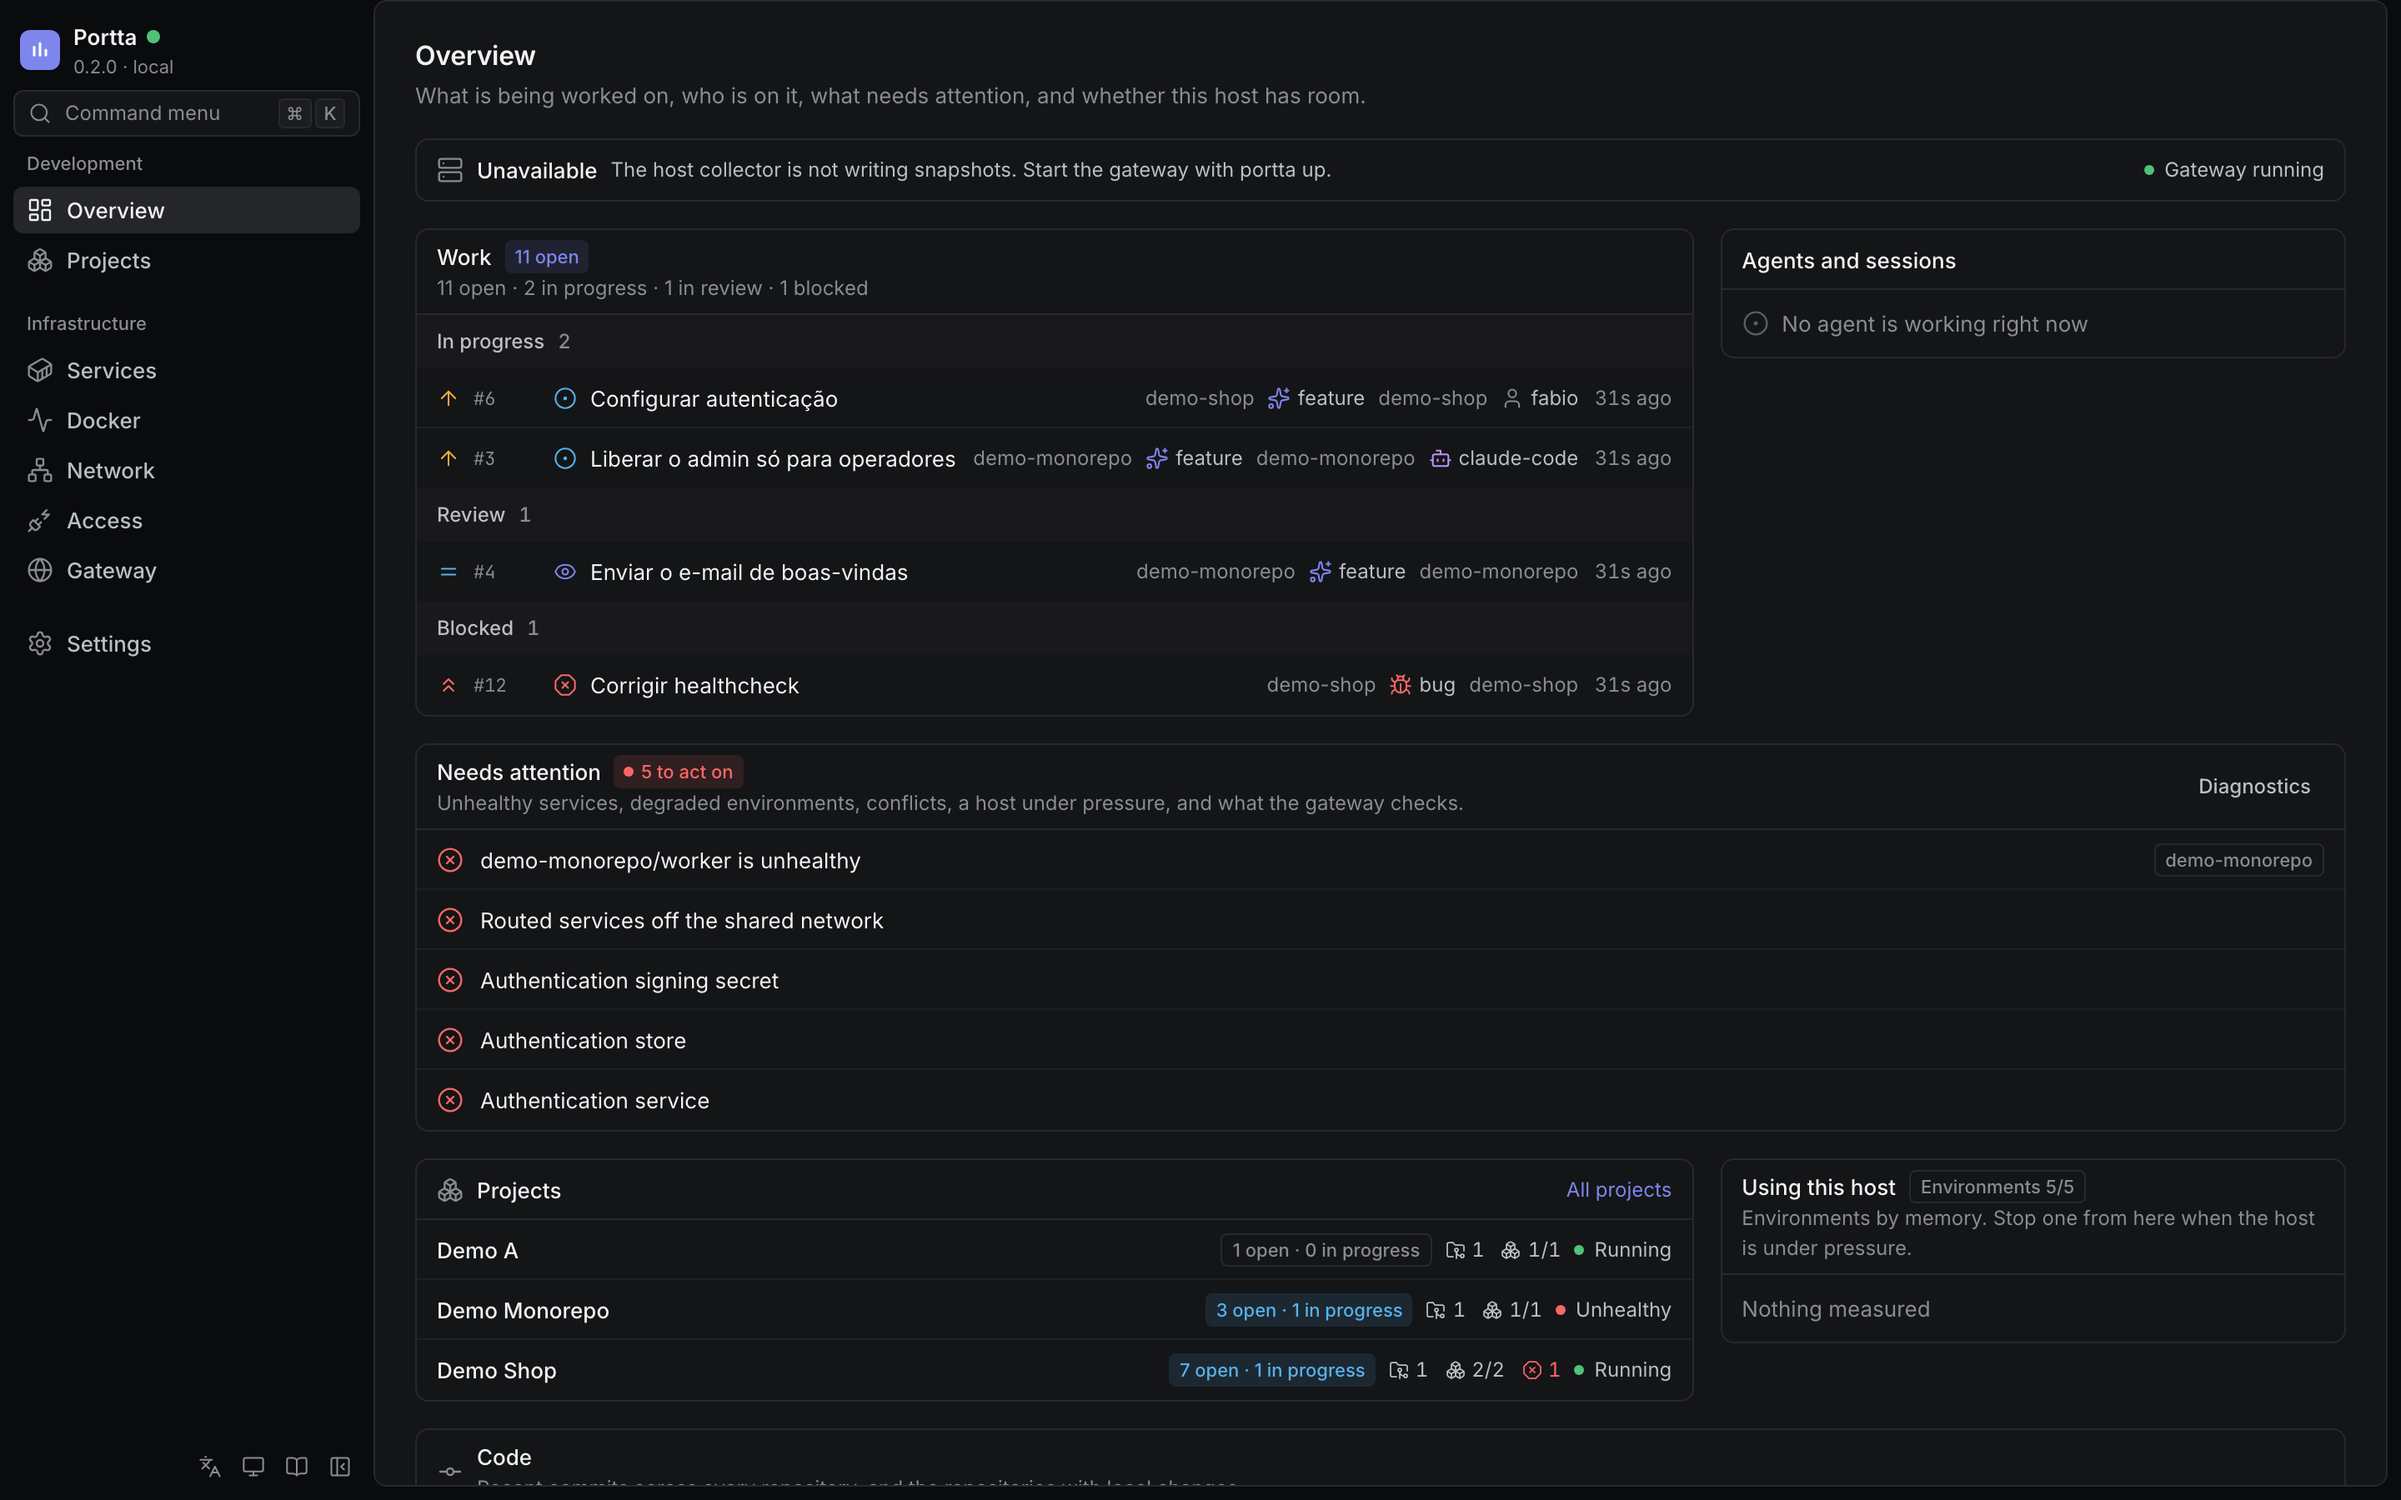
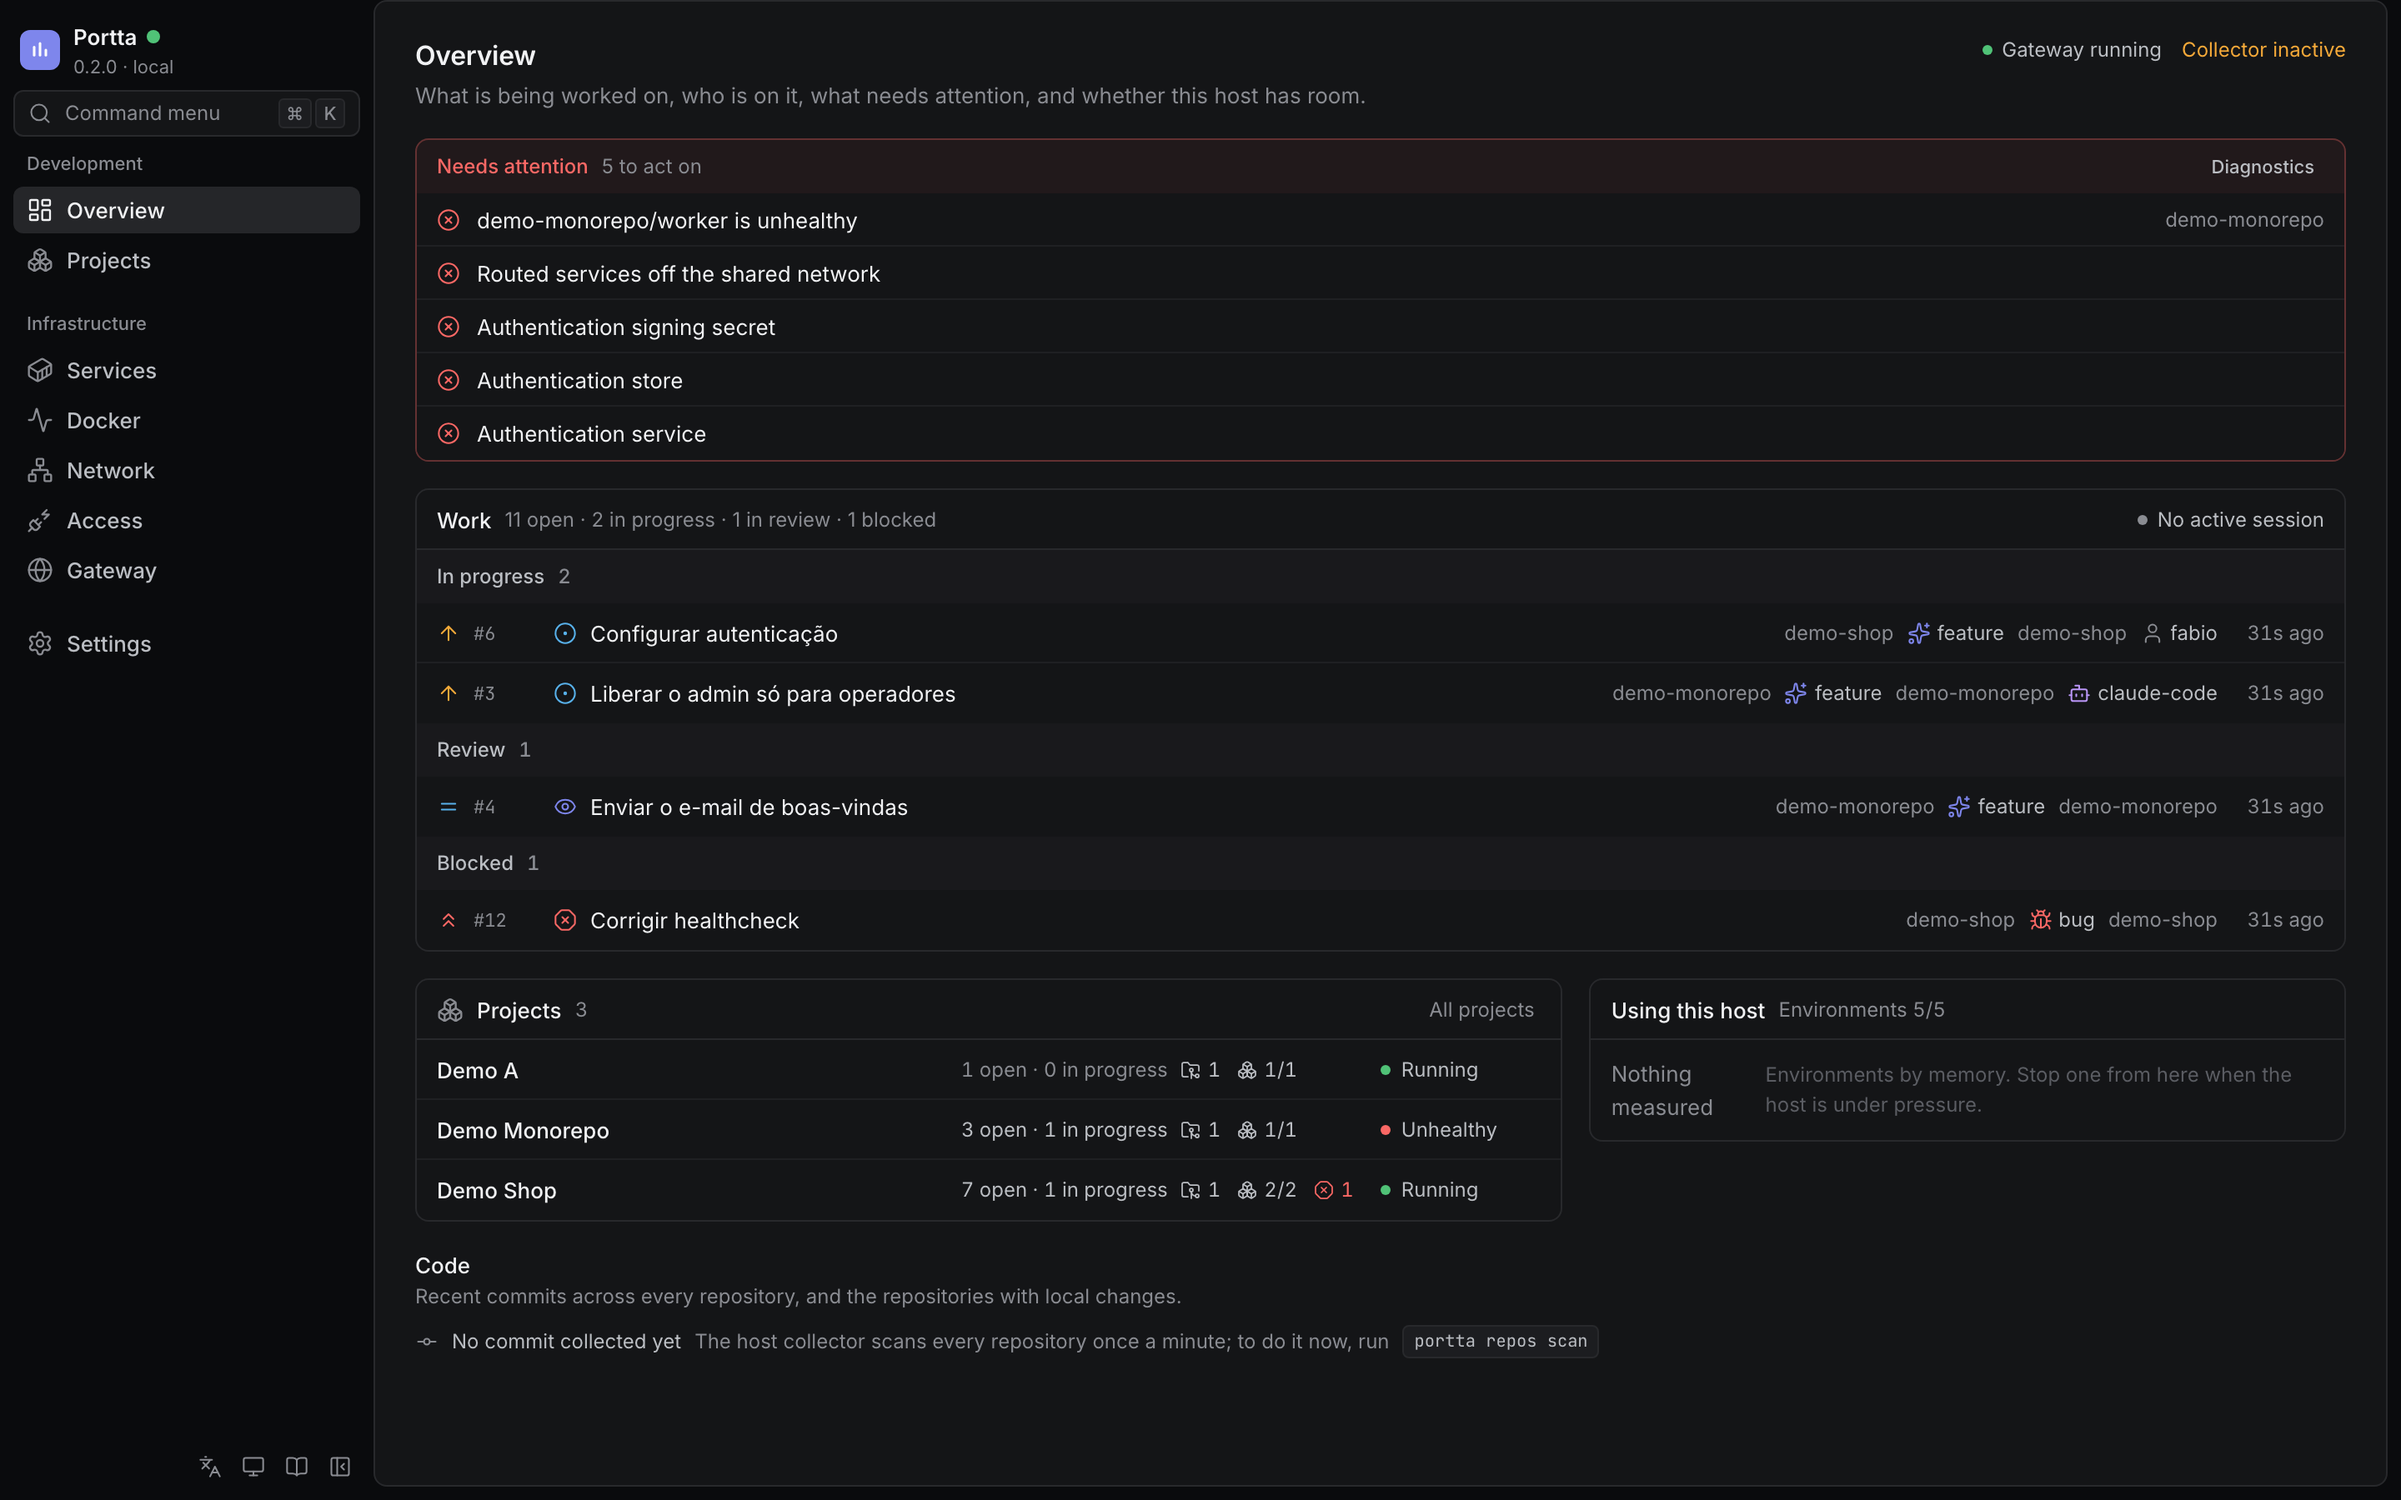
docs: describe the denser Overview, and show it

diff --git a/docs/web-ui.md b/docs/web-ui.md
@@ -377,20 +377,28 @@ top; the rest follow:
   repositories with uncommitted or unpushed work;
 - **Using this host** — the environments using the most of it, each with a Stop.
 
-The host itself is the band at the top, not a card at the bottom: hostname,
-system, uptime, and every measurement `portta host collect` reported — CPU,
-memory, storage, and, where the machine has them, GPU, temperature, battery
-and load — each with the last thirty minutes beside it. A host that has no
-battery grows no battery tile. Before any of those numbers it says the verdict
-in one word: **Normal**, **Watch**, **Under pressure** or **Critical**,
-computed from all of them together (see `hostPressure` in `packages/core`),
-with the readings that produced it in its tooltip.
+The host itself is not a card of its own. Its name, uptime and system sit
+under the page title; its verdict — **Normal**, **Watch**, **Under pressure**
+or **Critical**, computed from every reading together (see `hostPressure` in
+`packages/core`) — sits beside the title with the gateway's state and the age
+of the last snapshot; and every measurement `portta host collect` reported —
+CPU, memory, storage, and, where the machine has them, GPU, temperature,
+battery and load — is one cell of a strip, with the last thirty minutes and
+the details in its tooltip. A host that has no battery grows no battery cell.
+The same pressure is said once at each level: the verdict names it, the
+reading's colour points at it, and the attention band spells out the
+readings that caused it.
 
-The gateway's own state is a badge in that band, and its configuration
-moved to the Gateway page. Without PostgreSQL the work and project sections
-are empty and say so; the runtime, the host and the diagnostics still answer.
-It is served by `GET /api/overview`, which `portta overview` and an agent read
-too.
+The page sizes itself to what there is to say. With nobody working, the
+sessions panel is a word in the work panel's corner rather than an empty
+card; with nothing to act on, the attention band is one line; with no
+commit collected yet, the code section is a heading and the command that
+collects one.
+
+The gateway's configuration lives on the Gateway page. Without PostgreSQL the
+work and project sections are empty and say so; the runtime, the host and the
+diagnostics still answer. It is served by `GET /api/overview`, which
+`portta overview` and an agent read too.
 
 ### Projects
 
